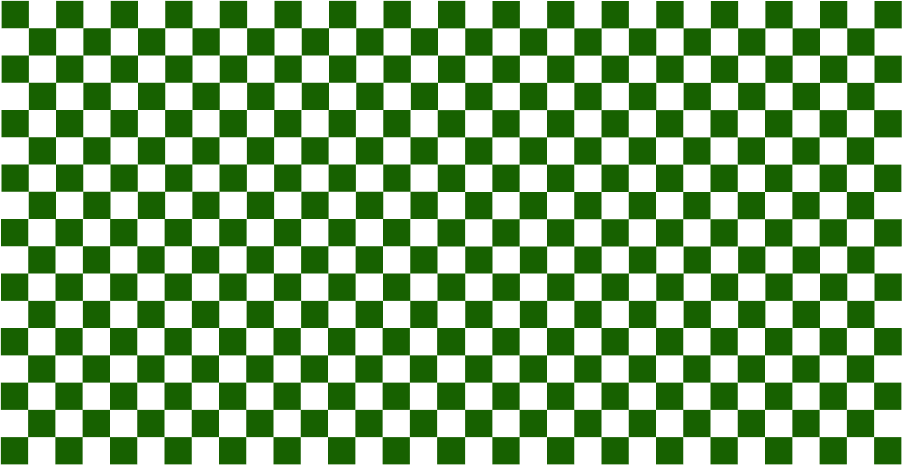
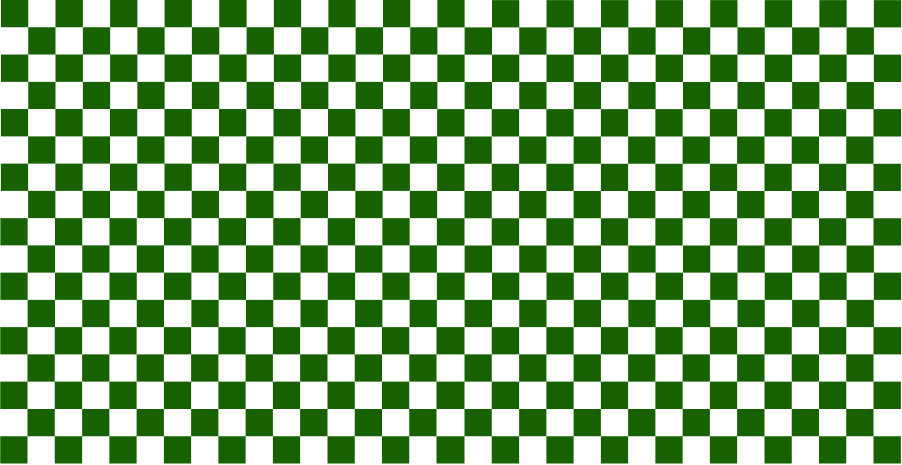
Card styling: checker bg, hover rotation and drop shadow

diff --git a/style.css b/style.css
@@ -66,8 +66,8 @@ h3 {
   line-height: 1.8rem;
   letter-spacing: -0.1rem;
   display: flex;
-  align-items: center;
-  justify-content: center;
+  /* align-items: center; */
+  /* justify-content: center; */
   gap: 0.5rem;
   font-weight: normal;
   margin-top: 0px;
@@ -114,18 +114,11 @@ section {
   padding: 1rem;
 }
 
-
-
 /* Layout for sidebar and content */
-
-
 .main-layout {
   height: 100vh;
   width: 100vw;
 }
-
-
-
 
 .sidebar {
   display: flex;
@@ -154,9 +147,6 @@ section {
   margin-bottom: 2rem;
   text-align: left;
 }
-
-
-
 
 .content-area {
   display: block;
@@ -265,16 +255,6 @@ header {
 
 
 
-
-.stats {
-  margin-top: 1rem;
-  display: flex;
-  flex-wrap: wrap;
-  justify-content: center;
-  gap: 0.5rem;
-}
-
-
 @media (min-width: 768px) {
   .details {
     flex-direction: row;
@@ -321,7 +301,7 @@ header {
   gap: 1rem; /* space between cards */
   padding: 1rem;
   background-color: #fffffa;
-  border-radius: 1rem;
+  /* border-radius: 1rem; */
   box-shadow: 0 2px 8px rgba(0,0,0,0.04);
   transition: background 0.2s;
 }
@@ -341,7 +321,7 @@ header {
   width: 100%;
   height: 100%;
   object-fit: cover;
-  border-radius: 0.5rem;
+  /* border-radius: 0.5rem; */
 }
 .website {
   display: inline-flex;          /* icon + text inline */
@@ -350,7 +330,7 @@ header {
   padding: 0.5rem 1rem;
   background-color: #d7d7d7;     /* primary color */
   color: #fff;                   /* white text */
-  border-radius: 8px;            /* rounded corners */
+  border-radius: 1rem;            /* rounded corners */
   font-weight: 500;
   font-size: 0.9rem;
   text-decoration: none;         /* remove underline */
@@ -386,4 +366,16 @@ header {
 
 .location p {
   margin: 0; /* remove default <p> margins */
+}
+
+.card-bg {
+  background-image: url('images/checker.png');
+  background-size: cover;
+  background-position: center;
+  padding: 1.5rem;
+}
+
+.card-bg:hover {
+  rotate: 1deg;
+  filter: drop-shadow(5px 5px 10px rgba(0, 0, 0, 0.5));
 }

diff --git a/listings.js b/listings.js
@@ -287,6 +287,8 @@ function renderPlaces(places, selectedTypes = TYPE.map(t => t.value)) {
       if (!imgSrc) imgSrc = "pokeball.svg";
 
       return `
+        
+        <div class="card-bg">
         <div class="place-item">
         <div class="card-text">
             <h3>${p.name || "Unnamed"}</h3>
@@ -298,7 +300,7 @@ function renderPlaces(places, selectedTypes = TYPE.map(t => t.value)) {
               ${p.website ? `<a href="${p.website}" target="_blank">Website<img src="images/open.svg" style="width: 1rem; vertical-align: middle;" alt="Open website"></a>` : ""}</div>
           </div>
           <img src="${imgSrc}" alt="${chosenCuisine || 'Placeholder'}" class="place-image" />
-          
+          </div>
         </div>
       `;
     }).join("");
